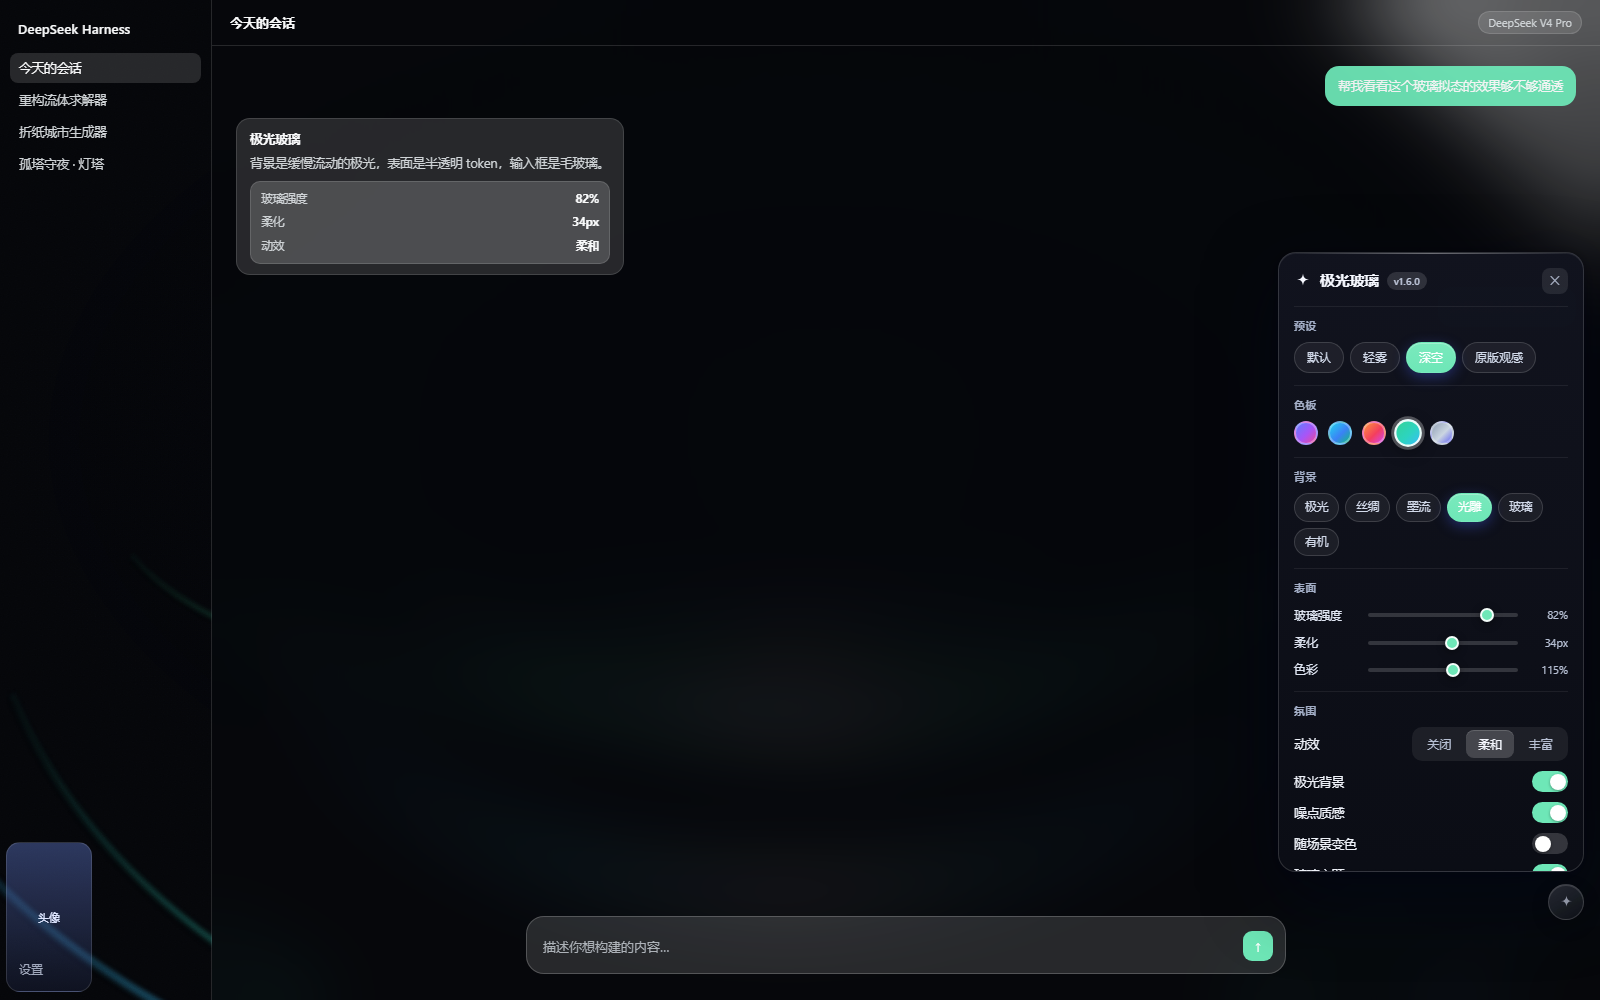
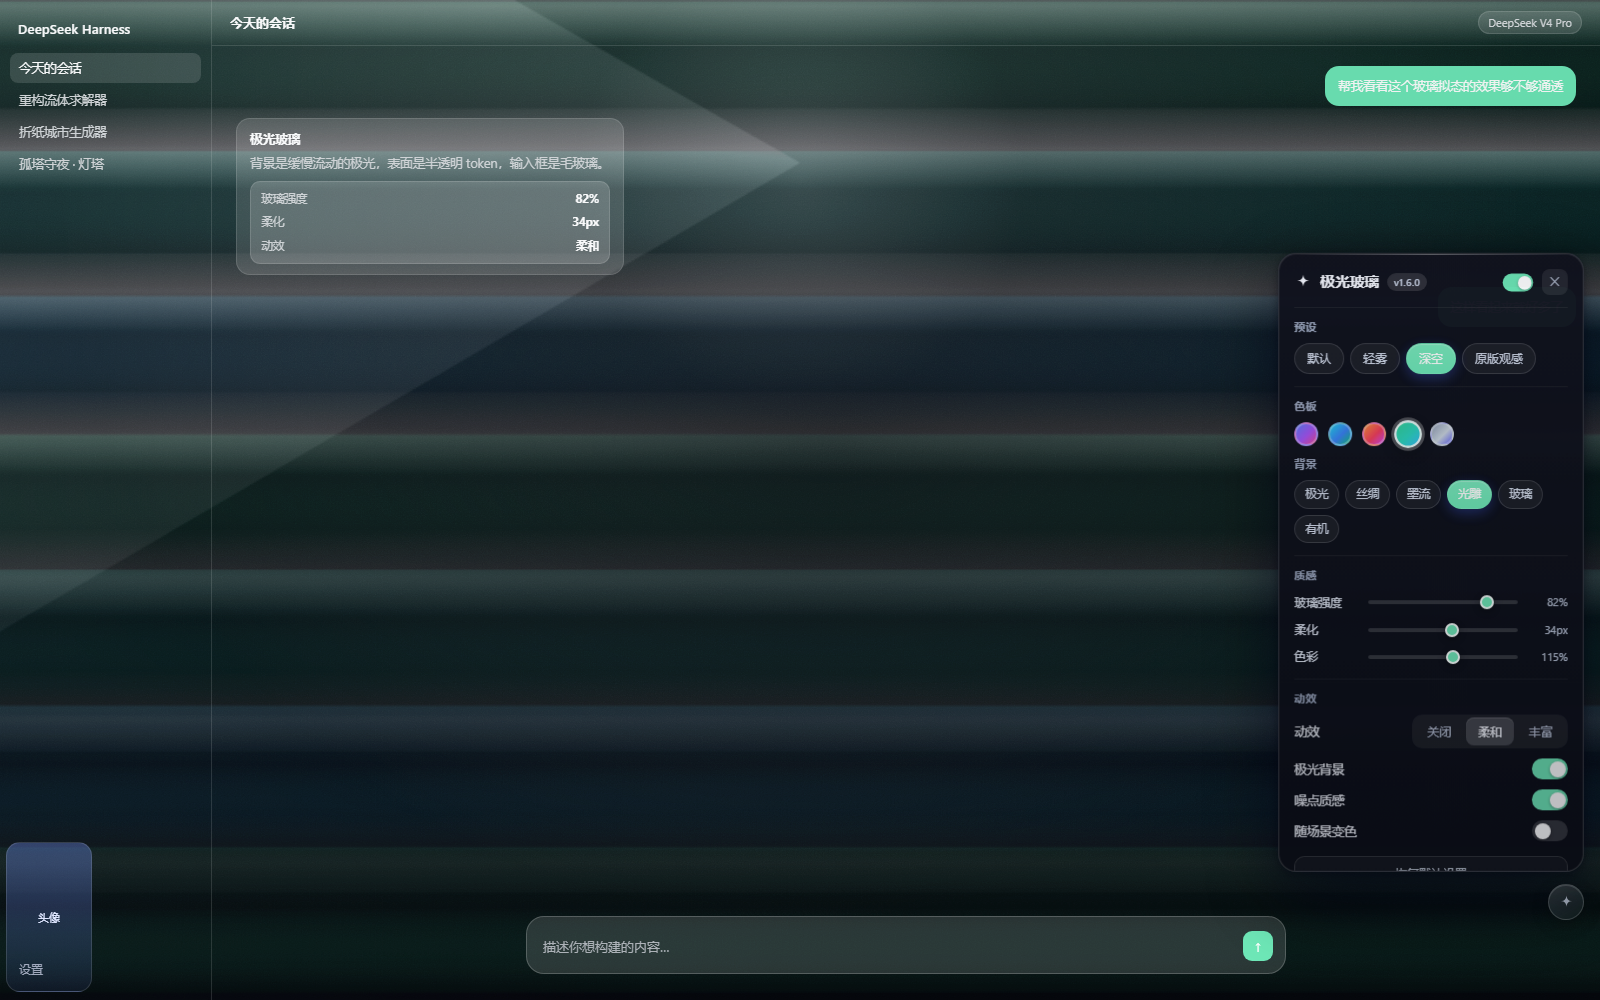
feat: v1.13.0 - relief as soft light bands, calmer organic, panel regrouped

diff --git a/client.js b/client.js
@@ -83,8 +83,8 @@ window.__ModuleLoader__.load({
         'panel.title': '极光玻璃',
         'sec.preset': '预设',
         'sec.palette': '色板',
-        'sec.surface': '表面',
-        'sec.look': '氛围',
+        'sec.surface': '质感',
+        'sec.look': '动效',
         'bg.label': '背景',
         'bg.aurora': '极光',
         'bg.silk': '丝绸',
@@ -119,8 +119,8 @@ window.__ModuleLoader__.load({
         'panel.title': 'Aurora Glass',
         'sec.preset': 'Presets',
         'sec.palette': 'Palette',
-        'sec.surface': 'Surface',
-        'sec.look': 'Atmosphere',
+        'sec.surface': 'Texture',
+        'sec.look': 'Motion',
         'bg.label': 'Backdrop',
         'bg.aurora': 'Aurora',
         'bg.silk': 'Silk',
@@ -522,6 +522,7 @@ body:not([data-ds-dark-theme]) [class*="composerSeat"] [class$="_card"]{
           if (key === 'class') node.className = value;
           else if (key === 'text') node.textContent = value;
           else if (key === 'style') node.setAttribute('style', value);
+          else if (key === 'ref' && typeof value === 'function') value(node);
           else if (key.slice(0, 2) === 'on' && typeof value === 'function') {
             node.addEventListener(key.slice(2).toLowerCase(), value);
           } else node.setAttribute(key, value);
@@ -619,6 +620,8 @@ body:not([data-ds-dark-theme]) [class*="composerSeat"] [class$="_card"]{
 #dsh-ag-panel::-webkit-scrollbar-thumb:hover{ background:rgba(148,163,184,.5); }
 
 .ag-head{ display:flex; align-items:center; justify-content:space-between; }
+.ag-head-right{ display:flex; align-items:center; gap:8px; }
+.ag-switch-sm{ transform:scale(.85); transform-origin:center; margin-right:-2px; }
 .ag-title{ display:flex; align-items:center; gap:8px; font-size:14.5px; font-weight:700; letter-spacing:.2px; color:#f6f8ff; }
 .ag-badge{ font-size:10px; padding:2px 7px; border-radius:99px; background:rgba(255,255,255,.13); color:#c2cadd; font-weight:600; }
 .ag-x{
@@ -911,7 +914,18 @@ body:not([data-ds-dark-theme]) [class*="composerSeat"] [class$="_card"]{
           el('span', { text: t('panel.title') }),
           el('span', { class: 'ag-badge', text: 'v' + VERSION }),
         ]),
-        el('button', { class: 'ag-x', type: 'button', 'aria-label': t('close'), onClick: () => setOpen(false) }, '\u2715'),
+        el('div', { class: 'ag-head-right' }, [
+          el('button', {
+            class: 'ag-switch ag-switch-sm',
+            type: 'button',
+            role: 'switch',
+            'data-switch': 'enabled',
+            'data-tip': tip('enabled'),
+            ref: (node) => { refs['sw-enabled'] = node; },
+            onClick: () => set({ enabled: !state.enabled }),
+          }),
+          el('button', { class: 'ag-x', type: 'button', 'aria-label': t('close'), onClick: () => setOpen(false) }, '\u2715'),
+        ]),
       ]);
 
       const presetChips = PRESETS.map((p) =>
@@ -1013,9 +1027,7 @@ body:not([data-ds-dark-theme]) [class*="composerSeat"] [class$="_card"]{
         el('div', { class: 'ag-sec' }, [
           el('div', { class: 'ag-label', text: t('sec.palette') }),
           el('div', { class: 'ag-swatches' }, swatches),
-        ]),
-        el('div', { class: 'ag-sec' }, [
-          el('div', { class: 'ag-label', text: t('bg.label') }),
+          el('div', { class: 'ag-label', style: 'margin-top:11px', text: t('bg.label') }),
           el('div', { class: 'ag-chips' }, bgChips),
         ]),
         el('div', { class: 'ag-sec' }, [
@@ -1033,7 +1045,6 @@ body:not([data-ds-dark-theme]) [class*="composerSeat"] [class$="_card"]{
           sw('aurora', t('sw.aurora')),
           sw('grain', t('sw.grain')),
           sw('tint', t('sw.tint')),
-          sw('enabled', t('sw.enabled')),
         ]),
         el('button', {
           class: 'ag-reset',
@@ -1596,55 +1607,56 @@ body:not([data-ds-dark-theme]) [class*="composerSeat"] [class$="_card"]{
       }
     }
 
-    /* ---- artificial nature: branching forms --------------------------- */
+    /* ---- artificial nature: quiet branching forms --------------------- */
 
     function branch(ctx, x, y, ang, len, depth, cols, dark, t, px, py, wid) {
       if (depth <= 0 || len < 1.2) return;
-      const sway = Math.sin(t * 1.1 + depth * 1.7 + x * 0.02) * 0.22;
+      // slow, small sway — the old version wobbled fast enough to be tiring
+      const sway = Math.sin(t * 0.55 + depth * 1.2 + x * 0.01) * 0.1;
       let a = ang + sway;
-      // the pointer bends the whole canopy
       if (px > -999) {
         const dx = x - px;
         const dy = y - py;
         const d = Math.sqrt(dx * dx + dy * dy) || 1;
-        if (d < 90) a += ((dx / d) * (1 - d / 90)) * 0.5;
+        if (d < 90) a += ((dx / d) * (1 - d / 90)) * 0.42;
       }
       const nx = x + Math.cos(a) * len;
       const ny = y + Math.sin(a) * len;
-      const c = cols[depth % 3];
+      const c = cols[Math.min(2, Math.floor(depth / 2))];
+      // narrow, uniform alpha range: no flickering contrast between branches
+      const alpha = dark ? 0.14 + depth * 0.055 : 0.16 + depth * 0.05;
       ctx.beginPath();
       ctx.moveTo(x, y);
-      ctx.quadraticCurveTo(x + Math.cos(a - 0.2) * len * 0.6, y + Math.sin(a - 0.2) * len * 0.6, nx, ny);
-      ctx.strokeStyle = 'rgba(' + c[0] + ',' + c[1] + ',' + c[2] + ',' + (dark ? 0.12 + depth * 0.16 : 0.18 + depth * 0.14) + ')';
+      ctx.quadraticCurveTo(x + Math.cos(a - 0.16) * len * 0.6, y + Math.sin(a - 0.16) * len * 0.6, nx, ny);
+      ctx.strokeStyle = 'rgba(' + c[0] + ',' + c[1] + ',' + c[2] + ',' + alpha + ')';
       ctx.lineWidth = wid;
       ctx.stroke();
 
-      // tips get a leaf, so the structure reads as growth rather than a line tree
-      if (depth <= 2) {
-        ctx.beginPath();
-        ctx.ellipse(nx, ny, len * 0.2, len * 0.09, a, 0, Math.PI * 2);
-        ctx.fillStyle = 'rgba(' + c[0] + ',' + c[1] + ',' + c[2] + ',' + (dark ? 0.2 + depth * 0.14 : 0.26 + depth * 0.12) + ')';
-        ctx.fill();
-      }
-
-      branch(ctx, nx, ny, a - 0.44, len * 0.72, depth - 1, cols, dark, t, px, py, wid * 0.66);
-      branch(ctx, nx, ny, a + 0.4, len * 0.68, depth - 1, cols, dark, t, px, py, wid * 0.66);
+      branch(ctx, nx, ny, a - 0.36, len * 0.74, depth - 1, cols, dark, t, px, py, wid * 0.72);
+      branch(ctx, nx, ny, a + 0.34, len * 0.7, depth - 1, cols, dark, t, px, py, wid * 0.72);
     }
 
     function drawOrganic(ctx, W, H, dark) {
-      ctx.fillStyle = dark ? '#070a09' : '#f0f3ee';
+      ctx.fillStyle = dark ? '#080b0a' : '#f2f4f0';
       ctx.fillRect(0, 0, W, H);
-      ctx.filter = 'blur(0.7px)';
+      ctx.filter = 'blur(0.6px)';
       const cols = paletteOf(state.palette).rgb;
-      const t = silkT * 9;
+      const t = silkT * 2.4;
       const px = silkPointer.active ? silkPointer.x : -999;
       const py = silkPointer.active ? silkPointer.y : -999;
 
-      // three root systems anchored along the bottom, like coral reaching up
-      for (let i = 0; i < 3; i += 1) {
-        const rx = W * (0.22 + i * 0.28);
-        branch(ctx, rx, H * 1.02, -Math.PI / 2 + (i - 1) * 0.22, H * 0.3, 5, cols, dark, t + i, px, py, 3.4);
+      // two quiet stands instead of three busy ones
+      for (let i = 0; i < 2; i += 1) {
+        const rx = W * (0.32 + i * 0.36);
+        branch(ctx, rx, H * 1.04, -Math.PI / 2 + (i - 0.5) * 0.14, H * 0.33, 4, cols, dark, t + i * 2.4, px, py, 3.2);
       }
+
+      // fog toward the top so the canopy fades out instead of stopping dead
+      const fog = ctx.createLinearGradient(0, 0, 0, H * 0.7);
+      fog.addColorStop(0, dark ? 'rgba(8,11,10,0.95)' : 'rgba(242,244,240,0.95)');
+      fog.addColorStop(1, 'rgba(0,0,0,0)');
+      ctx.fillStyle = fog;
+      ctx.fillRect(0, 0, W, H * 0.7);
     }
 
     /* ---- ascii: a wave field drawn as characters ---------------------- */
@@ -1691,91 +1703,79 @@ body:not([data-ds-dark-theme]) [class*="composerSeat"] [class$="_card"]{
       }
     }
 
-    /* ---- relief: a carved surface lit by god rays --------------------- */
-
-    const GROOVES = (() => {
-      const list = [];
-      let seed = 60613;
-      const rnd = () => {
-        seed = (seed * 1103515245 + 12345) & 0x7fffffff;
-        return seed / 0x7fffffff;
-      };
-      for (let i = 0; i < 13; i += 1) {
-        list.push({
-          r: 0.16 + i * 0.075,
-          y: 0.5 + (rnd() - 0.5) * 0.16,
-          w: 0.5 + rnd() * 0.9,
-          ph: rnd() * 6.28,
-          tone: i % 3,
-        });
-      }
-      return list;
-    })();
+    /* ---- relief: wide volumetric bands swept by a moving light -------- *
+     * Everything here is deliberately SOFT (gradients only, no strokes).
+     * The host blurs the backdrop behind the main pane, so any detail
+     * finer than ~40px would be destroyed there and survive in the
+     * sidebar — which is exactly what produced the visible seam.
+     * ------------------------------------------------------------------ */
 
     function drawRelief(ctx, W, H, dark) {
-      ctx.fillStyle = dark ? '#07070a' : '#eceef3';
+      const g0 = ctx.createLinearGradient(0, 0, W * 0.5, H);
+      g0.addColorStop(0, dark ? '#0d1018' : '#f4f6fa');
+      g0.addColorStop(1, dark ? '#06070c' : '#e8ecf3');
+      ctx.fillStyle = g0;
       ctx.fillRect(0, 0, W, H);
 
       const cols = paletteOf(state.palette).rgb;
-      const t = silkT * 5;
-      // the light source is the pointer; without one it sits top-right
-      const lx = silkPointer.active ? silkPointer.x : W * 0.78;
-      const ly = silkPointer.active ? silkPointer.y : -H * 0.12;
+      const t = silkT * 1.6;
+      const lx = silkPointer.active ? silkPointer.x : W * 0.5;
+      const ly = silkPointer.active ? silkPointer.y : H * 0.18;
 
-      // god rays fanning out of the light
-      ctx.filter = 'blur(11px)';
-      for (let i = 0; i < 7; i += 1) {
-        const ang = -1.9 + i * 0.19 + Math.sin(t * 0.4 + i) * 0.02;
-        const len = H * 1.9;
-        ctx.save();
-        ctx.translate(lx, ly);
-        ctx.rotate(ang);
-        const w = W * (0.045 + (i % 3) * 0.02);
-        const g = ctx.createLinearGradient(0, 0, 0, len);
-        g.addColorStop(0, dark ? 'rgba(255,255,255,0.46)' : 'rgba(255,255,255,0.7)');
-        g.addColorStop(0.35, dark ? 'rgba(255,255,255,0.14)' : 'rgba(255,255,255,0.28)');
-        g.addColorStop(1, 'rgba(255,255,255,0)');
-        ctx.fillStyle = g;
-        ctx.fillRect(-w / 2, 0, w, len);
-        ctx.restore();
+      ctx.filter = 'none';
+      const BANDS = 7;
+      for (let i = 0; i < BANDS; i += 1) {
+        const y0 = H * (i / BANDS);
+        const bh = H / BANDS;
+        const c = cols[i % 3];
+
+        // the lamp's reach on this band — this is what travels with the cursor
+        const my = y0 + bh * 0.5;
+        const ddx = (lx - W * 0.5) / W;
+        const ddy = (ly - my) / H;
+        const lit = Math.max(0, 1 - Math.sqrt(ddx * ddx * 1.2 + ddy * ddy) * 1.25);
+
+        // body: a wide soft slab, bright at the crest, fading into shadow
+        const gb = ctx.createLinearGradient(0, y0, 0, y0 + bh);
+        gb.addColorStop(0, 'rgba(' + c[0] + ',' + c[1] + ',' + c[2] + ',' + (0.1 + lit * 0.34) + ')');
+        gb.addColorStop(0.35, 'rgba(' + c[0] + ',' + c[1] + ',' + c[2] + ',' + (0.05 + lit * 0.16) + ')');
+        gb.addColorStop(1, dark ? 'rgba(3,4,8,0.5)' : 'rgba(120,130,150,0.12)');
+        ctx.fillStyle = gb;
+        ctx.fillRect(-W * 0.1, y0 + Math.sin(t + i * 0.8) * 6, W * 1.2, bh * 1.02);
+
+        // crest glow — a fat blurred gradient strip, not a line
+        const gc = ctx.createLinearGradient(0, y0 - bh * 0.3, 0, y0 + bh * 0.32);
+        gc.addColorStop(0, 'rgba(255,255,255,0)');
+        gc.addColorStop(0.55, 'rgba(255,255,255,' + (0.05 + lit * 0.42) + ')');
+        gc.addColorStop(1, 'rgba(255,255,255,0)');
+        ctx.fillStyle = gc;
+        ctx.fillRect(-W * 0.1, y0 - bh * 0.3 + Math.sin(t + i * 0.8) * 6, W * 1.2, bh * 0.62);
       }
 
-      // the carved body: nested grooves with a lit edge and a dark trough
-      ctx.filter = 'blur(0.8px)';
-      for (let i = 0; i < GROOVES.length; i += 1) {
-        const gv = GROOVES[i];
-        const c = cols[gv.tone];
-        const cx = W * 0.5 + Math.sin(t * 0.3 + gv.ph) * 6;
-        const cy = H * gv.y;
-        const rx = W * gv.r;
-        const ry = H * gv.r * gv.w;
-        const bend = Math.sin(t * 0.5 + gv.ph) * 0.06;
-        // the pointer dents the surface
-        let push = 0;
-        if (silkPointer.active) {
-          const d = Math.sqrt(Math.pow(silkPointer.x - cx, 2) + Math.pow(silkPointer.y - cy, 2));
-          push = Math.max(0, 1 - d / (W * 0.5)) * 7;
-        }
+      // the lamp itself: a big soft bloom plus a downward cone
+      ctx.globalCompositeOperation = 'lighter';
+      const bloom = ctx.createRadialGradient(lx, ly, 0, lx, ly, W * 0.42);
+      bloom.addColorStop(0, 'rgba(255,255,255,' + (dark ? 0.34 : 0.55) + ')');
+      bloom.addColorStop(0.3, 'rgba(255,255,255,' + (dark ? 0.1 : 0.18) + ')');
+      bloom.addColorStop(1, 'rgba(255,255,255,0)');
+      ctx.fillStyle = bloom;
+      ctx.fillRect(0, 0, W, H);
 
-        ctx.beginPath();
-        ctx.ellipse(cx, cy + push, rx, ry, bend, Math.PI * 0.08, Math.PI * 0.92);
-        const g = ctx.createLinearGradient(cx - rx, cy, cx + rx, cy);
-        g.addColorStop(0, 'rgba(' + c[0] + ',' + c[1] + ',' + c[2] + ',0)');
-        g.addColorStop(0.28, 'rgba(' + c[0] + ',' + c[1] + ',' + c[2] + ',' + (dark ? 0.8 : 0.6) + ')');
-        g.addColorStop(0.5, dark ? 'rgba(255,255,255,0.85)' : 'rgba(255,255,255,0.95)');
-        g.addColorStop(0.72, 'rgba(' + c[0] + ',' + c[1] + ',' + c[2] + ',' + (dark ? 0.55 : 0.45) + ')');
-        g.addColorStop(1, 'rgba(' + c[0] + ',' + c[1] + ',' + c[2] + ',0)');
-        ctx.strokeStyle = g;
-        ctx.lineWidth = 3 + (i % 3);
-        ctx.stroke();
-
-        // shadow just under the lit edge
-        ctx.beginPath();
-        ctx.ellipse(cx, cy + push + 3, rx, ry, bend, Math.PI * 0.08, Math.PI * 0.92);
-        ctx.strokeStyle = dark ? 'rgba(0,0,0,0.45)' : 'rgba(90,100,120,0.18)';
-        ctx.lineWidth = 1.6;
-        ctx.stroke();
-      }
+      ctx.save();
+      ctx.translate(lx, ly);
+      ctx.rotate(Math.PI / 2 + Math.sin(t * 0.3) * 0.06);
+      const cone = ctx.createLinearGradient(0, 0, 0, H * 1.6);
+      cone.addColorStop(0, 'rgba(255,255,255,' + (dark ? 0.14 : 0.2) + ')');
+      cone.addColorStop(1, 'rgba(255,255,255,0)');
+      ctx.beginPath();
+      ctx.moveTo(-10, 0);
+      ctx.lineTo(W * 0.52, H * 1.6);
+      ctx.lineTo(-W * 0.52, H * 1.6);
+      ctx.closePath();
+      ctx.fillStyle = cone;
+      ctx.fill();
+      ctx.restore();
+      ctx.globalCompositeOperation = 'source-over';
     }
 
     /* ---- minimal: one line, one dot ----------------------------------- */

diff --git a/CHANGELOG.md b/CHANGELOG.md
@@ -3,6 +3,27 @@
 本文件记录 dsh-aurora-glass 的重要变更，采用简易维护格式（Keep a Changelog 风格）。
 All notable changes to dsh-aurora-glass, in a simple maintenance format (Keep a Changelog style).
 
+## [1.13.0] - 2026-10-25
+
+### Fixed
+
+- **光雕重做**：之前是黑底 + 几条细弧线，既暗又看不出光在跟手。现在是**七道大块柔光带**，光源位置直接决定每一道的亮度 —— 鼠标移动时光带会一片片被点亮，配合顶部光晕和光锥，跟手非常明显。
+- **有机太费眼**：三丛密枝改成**两丛**，分叉层数 5 → 4，摆动速度降到 1/3，透明度区间收窄（不再忽明忽暗），顶部加了一层雾让树冠自然淡出。
+
+### Changed
+
+- **设置面板重新整合**：
+  - 总开关提到标题栏（和关闭按钮并排），不再埋在"氛围"里
+  - 色板与背景合并成一节（色块 + 背景 chip 上下排布）
+  - 五节 → 四节：**预设 / 色板+背景 / 质感 / 动效**，动效里的"速度"和其它开关放在一起
+  - 分区名从"表面/氛围"改成更直白的"质感/动效"
+
+### 排查记录
+
+预览工具里的 mock 主区残留了一条 `backdrop-filter: blur(40px)`，导致主区把背景糊掉、侧栏不糊，
+看起来就像一条硬缝 —— 前两轮我一直在修一个**预览里才有的假象**。删掉之后画布类背景在整个窗口里是连续的。
+真实应用里如果还有缝，根因是"侧栏和主区的底衬不一致"，v1.12 已经把它们调成同一个值了。
+
 ## [1.12.0] - 2026-10-25
 
 ### Fixed

diff --git a/README.md b/README.md
@@ -3,7 +3,7 @@
 > **`dsh-aurora-glass`** — 为 DeepSeek Harness（DSH）打造的全局玻璃拟态 + 极光渐变主题插件。
 > A global glassmorphism + aurora theme plugin for DeepSeek Harness.
 
-![Version](https://img.shields.io/badge/version-1.12.0-8fb0ff) ![License](https://img.shields.io/badge/license-MIT-059669) ![Platform](https://img.shields.io/badge/platform-DeepSeek%20Harness-4763ff) ![Dependencies](https://img.shields.io/badge/dependencies-0-0b7bf1)
+![Version](https://img.shields.io/badge/version-1.13.0-8fb0ff) ![License](https://img.shields.io/badge/license-MIT-059669) ![Platform](https://img.shields.io/badge/platform-DeepSeek%20Harness-4763ff) ![Dependencies](https://img.shields.io/badge/dependencies-0-0b7bf1)
 
 <p align="center">
   <img src="docs/preview-dark.png" alt="极光" width="780">
